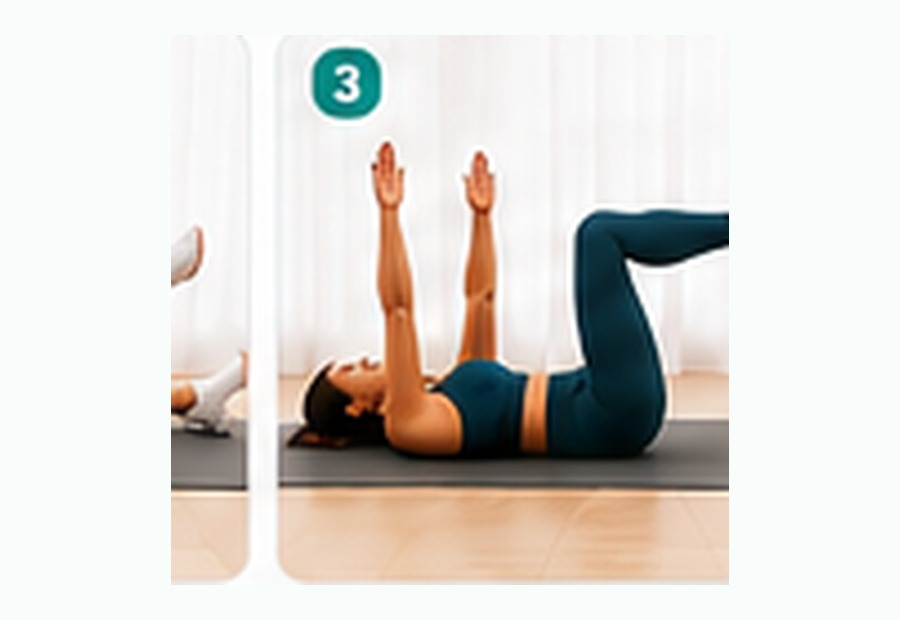
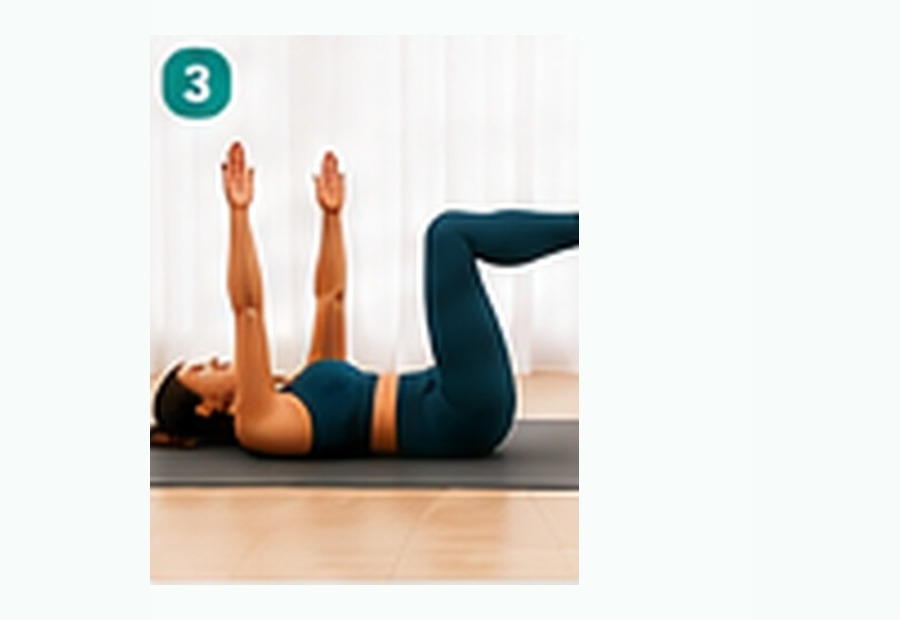
1

diff --git a/app.js b/app.js
@@ -202,7 +202,7 @@ const day1StepMap={
   ],
   rdl:[
     {title:'Výchozí stoj',text:'Postav se na šířku boků, kolena jen lehce pokrčená, ruce nebo činky u stehen.'},
-    {title:'Pánev dozadu',text:'Posílej pánev dozadu, záda drž dlouhá a ruce nech klouzat po stehnech směrem ke kolenům.'},
+    {title:'Boky dozadu',text:'Posuň boky dozadu, záda drž dlouhá a ruce nech klouzat po stehnech směrem ke kolenům.'},
     {title:'Návrat nahoru',text:'Zatlač přes paty, stáhni hýždě a vrať se do vzpřímeného stoje bez záklonu.'}
   ],
   hydrant:[
@@ -211,12 +211,12 @@ const day1StepMap={
     {title:'Kontrolovaný návrat',text:'Vrať koleno zpět pod kyčel pomalu, bez švihu a bez zhoupnutí v bedrech.'}
   ],
   clam:[
-    {title:'Zavřená pozice',text:'Leh na boku, paty u sebe, kolena pokrčená a boky položené přesně nad sebou.'},
-    {title:'Otevření kolena',text:'Horní koleno otevři nahoru jako mušličku, paty zůstávají u sebe.'},
-    {title:'Pomalý návrat',text:'Koleno zavírej pomalu, pánev se nesmí přetočit dozadu.'}
+    {title:'Výchozí pozice',text:'Lehni na bok, paty u sebe, kolena pokrčená. Neotáčej pánev.'},
+    {title:'Zvednutí kolena',text:'Pomalu zvedni horní koleno vzhůru. Paty zůstávají u sebe.'},
+    {title:'Návrat',text:'Pomalu vrať horní koleno zpět. Pohyb prováděj bez otáčení pánve.'}
   ],
   sideleg:[
-    {title:'Leh na boku',text:'Spodní noha může být pokrčená, horní noha je dlouhá a pánev stabilní.'},
+    {title:'Lehni na bok',text:'Spodní noha může být pokrčená, horní noha je dlouhá a pánev stabilní.'},
     {title:'Zvednutí nohy',text:'Zvedni horní nohu bez švihu. Špičku lehce přitáhni k sobě.'},
     {title:'Spuštění dolů',text:'Spouštěj nohu kontrolovaně zpět, nepovol břicho ani pánev.'}
   ],
@@ -293,7 +293,7 @@ function exCard(k,dose,d,i){
 const introKey='pb40-intro-seen-v11';
 
 function exportProgress(){
-  const payload={version:'PB40-v30',exportedAt:new Date().toISOString(),items:{}};
+  const payload={version:'PB40-v35',exportedAt:new Date().toISOString(),items:{}};
   for(let i=0;i<localStorage.length;i++){
     const k=localStorage.key(i);
     if(k&&k.startsWith('pb40-')) payload.items[k]=localStorage.getItem(k);

diff --git a/sw.js b/sw.js
@@ -1,4 +1,4 @@
-const CACHE='PB40-v34-day1-photo-display';
+const CACHE='PB40-v35-day1-texts-deadbug';
 const ASSETS=['./','index.html','manifest.json','style.css','app.js','data.js'];
 self.addEventListener('install',e=>{e.waitUntil(caches.open(CACHE).then(c=>c.addAll(ASSETS)).then(()=>self.skipWaiting()));});
 self.addEventListener('activate',e=>{e.waitUntil(caches.keys().then(keys=>Promise.all(keys.filter(k=>k!==CACHE).map(k=>caches.delete(k)))).then(()=>self.clients.claim()));});
@@ -12,3 +12,5 @@ self.addEventListener('fetch',e=>{
   }
   e.respondWith(caches.match(req).then(r=>r||fetch(req).then(res=>{const copy=res.clone();caches.open(CACHE).then(c=>c.put(req,copy));return res;})));
 });
+
+// v35: jazyková revize Dne 1 + oprava posledního kroku Dead Bug

diff --git a/data.js b/data.js
@@ -1,1 +1,1 @@
-window.PB40_DATA={"exercises":{"hip":{"name":"Glute Bridge","icon":"🍑","image":"assets/exercises/glute_bridge_card.jpg","dose":"","focus":"Hýždě a zadní stehna.","how":["Lehni si na záda na podložku, chodidla dej pod kolena. Zatlač přes paty a zvedni pánev nahoru.","V horní pozici krátce stáhni hýždě. Žebra nech dole a neprohýbej se v bedrech."],"feel":"Hýždě a zadní stehna.","watch":"Neprohýbej bedra a nezvedej se přes špičky."},"rdl":{"name":"Rumunský mrtvý tah","icon":"🍑","image":"assets/exercises/rdl_real_card.jpg","dose":"","focus":"Zadní stehna a hýždě.","how":["Postav se na šířku boků, lehce pokrč kolena a posílej pánev dozadu.","Záda drž dlouhá, činky nebo ruce kloužou po stehnech."],"feel":"Zadní stehna a hýždě.","watch":"Drž rovná záda."},"hydrant":{"name":"Fire Hydrant","icon":"🍑","image":"assets/exercises/hydrant_real_card.jpg","dose":"","focus":"Bok hýždě.","how":["Na všech čtyřech zpevni břicho a zvedej koleno do strany jen do čistého rozsahu.","Pánev se nesmí překlápět."],"feel":"Bok hýždě.","watch":"Nepřetáčej pánev."},"clam":{"name":"Clamshell","icon":"🍑","image":"assets/exercises/clam_real_card.jpg","dose":"","focus":"Bok hýždě.","how":["Leh na boku, paty u sebe, kolena pokrčená. Horní koleno otevři a pomalu vrať.","Boky zůstávají nad sebou."],"feel":"Bok hýždě.","watch":"Nepřeklápěj bok dozadu."},"sideleg":{"name":"Side Leg Lift","icon":"🍑","image":"assets/exercises/sideleg_real_card.jpg","dose":"","focus":"Bok hýždě.","how":["Leh na boku, spodní noha může být pokrčená. Horní nohu zvedej bez švihu.","Špičku lehce stáhni k sobě, ať pracuje bok hýždě."],"feel":"Bok hýždě.","watch":"Nešvihej nohou."},"deadbug":{"name":"Dead Bug","icon":"🔥","image":"assets/exercises/deadbug_real_card.jpg","dose":"","focus":"Spodní břicho.","how":["Leh na zádech, nohy v 90° a ruce ke stropu. Pomalu natáhni pravou ruku za hlavu a levou nohu dopředu.","Vrať se zpět do výchozí polohy a potom vystřídej strany. Bedra drž stabilní."],"feel":"Spodní břicho.","watch":"Bedra se neodlepují od podložky."},"toetap":{"name":"Toe Taps","icon":"🔥","image":"assets/exercises/toetap.jpg","dose":"","focus":"Spodní břicho.","how":["Leh na zádech, nohy v 90°. Střídavě pokládej špičku k zemi.","Když se bedra odlepují, zmenši rozsah."],"feel":"Spodní břicho.","watch":"Bedra drž u země."},"revcrunch":{"name":"Reverse Crunch","icon":"🔥","image":"assets/exercises/revcrunch.jpg","dose":"","focus":"Spodní břicho.","how":["Kolena veď k hrudníku a pánev jen lehce odlep od podložky.","Netáhej švihem a nezvedej celý trup."],"feel":"Spodní břicho.","watch":"Nešvihej nohama."},"sideplank":{"name":"Side Plank","icon":"🔥","image":"assets/exercises/sideplank.jpg","dose":"","focus":"Pas.","how":["Loket pod ramenem, boky nad sebou. Zvedni pánev a drž.","Lehčí varianta je s koleny na zemi."],"feel":"Pas.","watch":"Nepropadej se v rameni."},"hollow":{"name":"Hollow Hold","icon":"🔥","image":"assets/exercises/hollow.jpg","dose":"","focus":"Břicho.","how":["Bedra přitiskni k podložce, ruce a nohy natáhni jen tak nízko, jak udržíš techniku.","Když táhne krk nebo bedra, vrať nohy výš."],"feel":"Břicho.","watch":"Když cítíš bedra, pokrč kolena."},"row":{"name":"Bent Over Row","icon":"💪","image":"assets/exercises/row.jpg","dose":"","focus":"Záda.","how":["S gumou nebo činkami táhni lokty dozadu podél těla.","Ramena drž dolů, lopatky jemně k sobě."],"feel":"Záda.","watch":"Ramena nedávej k uším."},"press":{"name":"Shoulder Press","icon":"💪","image":"assets/exercises/press.jpg","dose":"","focus":"Ramena.","how":["Tlač ruce nad hlavu bez prohnutí v bedrech.","Břicho lehce zpevni a ramena netlač k uším."],"feel":"Ramena.","watch":"Neprohýbej bedra."},"raise":{"name":"Lateral Raise","icon":"💪","image":"assets/exercises/raise.jpg","dose":"","focus":"Ramena.","how":["Zvedej ruce jen po úroveň ramen, palce lehce nahoru.","Krk nech dlouhý a nepomáhej si švihem."],"feel":"Ramena.","watch":"Nešvihej."},"bird":{"name":"Bird Dog","icon":"🔥","image":"assets/exercises/bird.jpg","dose":"","focus":"Střed těla a hýždě.","how":["Na všech čtyřech natáhni opačnou ruku a nohu.","Pánev drž rovně a vrať pomalu zpět."],"feel":"Střed těla a hýždě.","watch":"Pánev se neotáčí."},"frog":{"name":"Frog Pumps","icon":"🍑","image":"assets/exercises/frog.jpg","dose":"","focus":"Hýždě.","how":["Chodidla spoj k sobě, kolena od sebe. Zvedej pánev krátkým hýžďovým pohybem.","V horní pozici nestlačuj bedra, jen hýždě."],"feel":"Hýždě.","watch":"Bedra klidně."},"donkey":{"name":"Donkey Kick","icon":"🍑","image":"assets/exercises/donkey.jpg","dose":"","focus":"Hýždě.","how":["Koleno drž pokrčené, patu tlač nahoru.","Neprohýbej se, pohyb vychází z hýždě."],"feel":"Hýždě.","watch":"Nekopej švihem."},"abduction":{"name":"Bridge Abduction","icon":"🍑","image":"assets/exercises/abduction.jpg","dose":"","focus":"Bok hýždě.","how":["V mostu drž pánev nahoře a kolena otevírej do stran.","Gumu tlač plynule, ne švihem."],"feel":"Bok hýždě.","watch":"Pánev neklesá."},"plie":{"name":"Plié Squat","icon":"🍑","image":"assets/exercises/plie.jpg","dose":"","focus":"Hýždě a stehna.","how":["Široký postoj, špičky ven. Klesej jen do pohodlné hloubky.","Kolena sledují špičky, nepadnou dovnitř."],"feel":"Hýždě a stehna.","watch":"Kolena míří ke špičkám."},"plank":{"name":"Forearm Plank","icon":"🔥","image":"assets/exercises/plank.jpg","dose":"","focus":"Střed těla.","how":["Lokty pod rameny, tělo v jedné linii.","Zpevni břicho a dýchej krátce do žeber."],"feel":"Střed těla.","watch":"Nezvedej zadek moc vysoko."},"tap":{"name":"Plank Shoulder Taps","icon":"🔥","image":"assets/exercises/tap.jpg","dose":"","focus":"Střed těla a ramena.","how":["V prkně se dotkni opačného ramene.","Pánev drž klidně, raději pomaleji."],"feel":"Střed těla a ramena.","watch":"Nehoupej pánví."},"catcow":{"name":"Cat-Cow","icon":"🧘","image":"assets/exercises/catcow.jpg","dose":"","focus":"Páteř.","how":["S nádechem jemně otevři hrudník, s výdechem zakulať záda.","Pohyb veď obratel po obratli."],"feel":"Páteř.","watch":"Pomalu, ne švihem."},"thread":{"name":"Thread the Needle","icon":"🧘","image":"assets/exercises/thread.jpg","dose":"","focus":"Horní záda.","how":["Ruku provleč pod tělem a nech rameno klesnout k zemi.","Dýchej do horní části zad."],"feel":"Horní záda.","watch":"Netlač přes bolest."},"rollup":{"name":"Roll Up","icon":"🧘","image":"assets/exercises/rollup.jpg","dose":"","focus":"Břicho.","how":["Začni vleže, bradu jemně k hrudníku a zvedej se pomalu.","Když to nejde, pomoz si rukama za stehny."],"feel":"Břicho.","watch":"Necukej tělem."},"mermaid":{"name":"Mermaid Stretch","icon":"🧘","image":"assets/exercises/mermaid.jpg","dose":"","focus":"Bok trupu.","how":["Sedni si pohodlně a veď ruku obloukem přes hlavu.","Protahuj bok trupu, nekrč rameno."],"feel":"Bok trupu.","watch":"Rameno netlač k uchu."},"sidekick":{"name":"Side Kick Series","icon":"🍑","image":"assets/exercises/sidekick.jpg","dose":"","focus":"Bok hýždě.","how":["Na boku veď horní nohu dopředu a dozadu v malém rozsahu.","Břicho drž pevné, pánev se nehýbe."],"feel":"Bok hýždě.","watch":"Pánev drž klidně."},"swan":{"name":"Swan Prep","icon":"🧘","image":"assets/exercises/swan.jpg","dose":"","focus":"Horní záda.","how":["Leh na břiše, lokty u těla. Jemně zvedni hrudník.","Hýždě a břicho lehce aktivní, bedra netlač."],"feel":"Horní záda.","watch":"Nepřetěžuj bedra."},"spine":{"name":"Spine Stretch","icon":"🧘","image":"assets/exercises/spine.jpg","dose":"","focus":"Záda a zadní stehna.","how":["Sed s dlouhými zády, ruce dopředu. Kulatě se vytahuj vpřed.","Nepřepínej kolena a netlač přes hamstringy."],"feel":"Záda a zadní stehna.","watch":"Netlač přes bolest."},"wall":{"name":"Wall Sit","icon":"🍑","image":"assets/exercises/wall.jpg","dose":"","focus":"Stehna.","how":["Záda opři o zeď a sjeď jen do bezbolestné hloubky.","Kolena drž nad kotníky, ne hluboko před nimi."],"feel":"Stehna.","watch":"Když bolí kolena, vynech."},"hip_march":{"name":"Glute Bridge March","icon":"🍑","image":"assets/exercises/hip_march.jpg","dose":"","focus":"Hýždě a střed těla.","how":["V mostu drž pánev nahoře a pomalu střídavě odlehči jednu nohu.","Pánev se nesmí houpat do stran; když se hýbe, vrať se ke klasickému mostu."],"feel":"Hýždě, zadní stehna a spodní břicho.","watch":"Pánev drž v rovině."},"rdl_slow":{"name":"Rumunský mrtvý tah – pomalu","icon":"🍑","image":"assets/exercises/rdl_slow.jpg","dose":"","focus":"Zadní stehna a hýždě.","how":["Pánev posílej dozadu tři pomalé sekundy a nahoru se vrať plynule.","Kolena jsou jen lehce pokrčená, záda dlouhá a krk volný."],"feel":"Zadní stehna a hýždě.","watch":"Nezakulacuj záda."},"clam_pulse":{"name":"Clamshell pulsy","icon":"🍑","image":"assets/exercises/clam_pulse.jpg","dose":"","focus":"Bok hýždě.","how":["Otevři horní koleno a nahoře udělej 3 malé pulsy.","Boky zůstávají nad sebou, neotáčej pánev dozadu."],"feel":"Bok hýždě.","watch":"Nepřeklápěj bok dozadu."},"deadbug_hold":{"name":"Dead Bug s výdrží","icon":"🔥","image":"assets/exercises/deadbug_hold.jpg","dose":"","focus":"Spodní břicho.","how":["Natáhni opačnou ruku a nohu a na 2 sekundy zastav.","Bedra drž stabilní, raději zmenši rozsah než ztratit kontrolu."],"feel":"Hluboké břicho a stabilitu středu.","watch":"Bedra se neodlepují."},"toetap_slow":{"name":"Toe Taps – pomalu","icon":"🔥","image":"assets/exercises/toetap_slow.jpg","dose":"","focus":"Spodní břicho.","how":["Špičku pokládej k zemi na 3 sekundy a stejně pomalu vrať zpět.","Když se bedra odlepují, pokládej špičku jen do poloviny."],"feel":"Spodní břicho.","watch":"Nepospíchej a nezvedej bedra."},"sideplank_reach":{"name":"Side Plank Reach","icon":"🔥","image":"assets/exercises/sideplank_reach.jpg","dose":"","focus":"Pas a šikmé břišní svaly.","how":["V bočním prkně vytáhni horní ruku ke stropu a pak ji pomalu veď před tělo.","Lehčí varianta je s koleny na zemi."],"feel":"Pas, bok trupu a rameno.","watch":"Nepropadej se v rameni."},"row_pause":{"name":"Bent Over Row s pauzou","icon":"💪","image":"assets/exercises/row_pause.jpg","dose":"","focus":"Záda.","how":["Přitáhni lokty dozadu a na 1 sekundu zastav lopatky u sebe.","Ramena zůstávají daleko od uší a krk je volný."],"feel":"Mezilopatkové svaly a horní záda.","watch":"Ramena netahej k uším."},"press_slow":{"name":"Shoulder Press – kontrolovaně","icon":"💪","image":"assets/exercises/press_slow.jpg","dose":"","focus":"Ramena.","how":["Tlač ruce nad hlavu pomalu a nahoře nezamykej lokty silou.","Břicho drž aktivní, ať se neprohneš v bedrech."],"feel":"Ramena a horní záda.","watch":"Neprohýbej bedra."},"bird_hold":{"name":"Bird Dog s výdrží","icon":"🔥","image":"assets/exercises/bird_hold.jpg","dose":"","focus":"Střed těla, záda a hýždě.","how":["Natáhni opačnou ruku a nohu a na 2 sekundy zastav.","Pánev drž rovně, jako by na ní ležela sklenička vody."],"feel":"Střed těla, hýždě a stabilitu zad.","watch":"Pánev se neotáčí."},"sidekick_pulse":{"name":"Side Kick pulsy","icon":"🍑","image":"assets/exercises/sidekick_pulse.jpg","dose":"","focus":"Bok hýždě.","how":["Na boku veď nohu lehce dopředu a nahoře přidej malé kontrolované pulsy.","Pánev zůstává klidná, břicho lehce aktivní."],"feel":"Bok hýždě.","watch":"Nešvihej nohou."},"swan_hold":{"name":"Swan Prep s výdrží","icon":"🧘","image":"assets/exercises/swan_hold.jpg","dose":"","focus":"Horní záda.","how":["Jemně zvedni hrudník a na 2 nádechy zastav.","Hýždě a břicho jsou lehce aktivní, bedra netlač."],"feel":"Horní záda a otevření hrudníku.","watch":"Nepřetěžuj bedra."},"frog_hold":{"name":"Frog Pumps s výdrží","icon":"🍑","image":"assets/exercises/frog_hold.jpg","dose":"","focus":"Hýždě.","how":["Po několika krátkých pumpech nahoře na 2 sekundy stáhni hýždě.","Bedra zůstávají klidná, pohyb je opravdu z hýždí."],"feel":"Hýždě.","watch":"Netlač pohyb do beder."},"plank_breath":{"name":"Forearm Plank + dech","icon":"🔥","image":"assets/exercises/plank_breath.jpg","dose":"","focus":"Střed těla.","how":["Drž prkno a počítej pomalé nádechy do žeber.","Zadek není vysoko, bedra se nepropadají."],"feel":"Střed těla a stabilitu ramen.","watch":"Nezadržuj dech."}},"days":[{"title":"Den 1 • Hýždě + zadní stehna","note":"První týden si hlídej hlavně techniku. Tlak přes paty, pomalé tempo. Pokud se ozvou kyčle, zmenši rozsah.","items":[["hip","15×"],["rdl","12×"],["hydrant","15/15"],["clam","15/15"],["sideleg","15/15"],["deadbug","10/10"]]},{"title":"Den 2 • Břicho + pas","note":"První týden si hlídej hlavně techniku. Bedra drž stabilní. U břicha vydechuj při nejtěžší části pohybu.","items":[["deadbug","12/12"],["toetap","15/15"],["revcrunch","12×"],["sideplank","25 s/strana"],["hollow","20 s"],["thread","30 s/strana"]]},{"title":"Den 3 • Horní část + držení těla","note":"První týden si hlídej hlavně techniku. Ramena dolů od uší. Dnes jde hlavně o záda, lopatky a klidný krk.","items":[["row","12×"],["press","10×"],["raise","12×"],["bird","12/12"],["plank","25 s"],["mermaid","30 s/strana"]]},{"title":"Den 4 • Asian Pilates / mobilita","note":"První týden si hlídej hlavně techniku. Plynulost, dech a delší linie těla. Necvič do ostré bolesti.","items":[["rollup","35 s"],["mermaid","30 s/strana"],["sidekick","35 s/strana"],["swan","35 s"],["spine","40 s"],["catcow","40 s"]]},{"title":"Den 5 • Zadek SPECIAL","note":"První týden si hlídej hlavně techniku. Zadek může pálit, kolena ne. Plié nech mělké, pokud cítíš tlak v kolenou.","items":[["frog","20×"],["donkey","15/15"],["hydrant","18/18"],["abduction","15×"],["plie","12×"],["thread","30 s/strana"]]},{"title":"Den 6 • Celé tělo","note":"První týden si hlídej hlavně techniku. Technika před rychlostí. Ber to jako propojení všeho z týdne.","items":[["rdl","12×"],["plank","25 s"],["tap","10/10"],["hip","15×"],["row","12×"],["spine","40 s"]]},{"title":"Den 7 😴 Volno / chůze","note":"Volno, lehká procházka nebo jemné protažení. Tělo sílí i regenerací.","items":[]},{"title":"Den 8 • Hýždě + zadní stehna","note":"Druhý týden přidáváme pomalejší tempo, krátké výdrže a lepší kontrolu. Tlak přes paty, pomalé tempo. Pokud se ozvou kyčle, zmenši rozsah.","items":[["hip_march","12/12"],["rdl_slow","12×"],["hydrant","18/18"],["clam_pulse","12/12"],["sideleg","18/18"],["catcow","45 s"]]},{"title":"Den 9 • Břicho + pas","note":"Druhý týden přidáváme pomalejší tempo, krátké výdrže a lepší kontrolu. Bedra drž stabilní. U břicha vydechuj při nejtěžší části pohybu.","items":[["deadbug_hold","10/10"],["toetap_slow","12/12"],["revcrunch","14×"],["sideplank_reach","8/8"],["hollow","25 s"],["thread","35 s/strana"]]},{"title":"Den 10 • Horní část + držení těla","note":"Druhý týden přidáváme pomalejší tempo, krátké výdrže a lepší kontrolu. Ramena dolů od uší. Dnes jde hlavně o záda, lopatky a klidný krk.","items":[["row_pause","12×"],["press_slow","10×"],["raise","14×"],["bird_hold","10/10"],["plank_breath","30 s"],["mermaid","35 s/strana"]]},{"title":"Den 11 • Asian Pilates / mobilita","note":"Druhý týden přidáváme pomalejší tempo, krátké výdrže a lepší kontrolu. Plynulost, dech a delší linie těla. Necvič do ostré bolesti.","items":[["rollup","40 s"],["mermaid","35 s/strana"],["sidekick_pulse","35 s/strana"],["swan_hold","35 s"],["spine","45 s"],["catcow","45 s"]]},{"title":"Den 12 • Zadek SPECIAL","note":"Druhý týden přidáváme pomalejší tempo, krátké výdrže a lepší kontrolu. Zadek může pálit, kolena ne. Plié nech mělké, pokud cítíš tlak v kolenou.","items":[["frog_hold","18×"],["donkey","18/18"],["hydrant","18/18"],["abduction","18×"],["plie","14×"],["thread","35 s/strana"]]},{"title":"Den 13 • Celé tělo","note":"Druhý týden přidáváme pomalejší tempo, krátké výdrže a lepší kontrolu. Technika před rychlostí. Ber to jako propojení všeho z týdne.","items":[["rdl_slow","12×"],["plank_breath","30 s"],["tap","10/10"],["hip_march","12/12"],["row_pause","12×"],["spine","45 s"]]},{"title":"Den 14 😴 Volno / chůze","note":"Volno, lehká procházka nebo jemné protažení. Tělo sílí i regenerací.","items":[]},{"title":"Den 15 • Hýždě + zadní stehna","note":"Třetí týden zpevni střed a pracuj přesněji. Tlak přes paty, pomalé tempo. Pokud se ozvou kyčle, zmenši rozsah.","items":[["hip","20×"],["rdl","20×"],["hydrant","15/15"],["clam","15/15"],["sideleg","15/15"],["catcow","40 s"]]},{"title":"Den 16 • Břicho + pas","note":"Třetí týden zpevni střed a pracuj přesněji. Bedra drž stabilní. U břicha vydechuj při nejtěžší části pohybu.","items":[["deadbug","12/12"],["toetap","15/15"],["revcrunch","20×"],["sideplank","45 s/strana"],["hollow","20 s"],["thread","45 s/strana"]]},{"title":"Den 17 • Horní část + držení těla","note":"Třetí týden zpevni střed a pracuj přesněji. Ramena dolů od uší. Dnes jde hlavně o záda, lopatky a klidný krk.","items":[["row","20×"],["press","20×"],["raise","20×"],["bird","12/12"],["plank","45 s"],["mermaid","45 s/strana"]]},{"title":"Den 18 • Asian Pilates / mobilita","note":"Třetí týden zpevni střed a pracuj přesněji. Plynulost, dech a delší linie těla. Necvič do ostré bolesti.","items":[["rollup","45 s"],["mermaid","45 s/strana"],["sidekick","45 s/strana"],["swan","45 s"],["spine","40 s"],["catcow","40 s"]]},{"title":"Den 19 • Zadek SPECIAL","note":"Třetí týden zpevni střed a pracuj přesněji. Zadek může pálit, kolena ne. Plié nech mělké, pokud cítíš tlak v kolenou.","items":[["frog","20×"],["donkey","15/15"],["hydrant","20/20"],["abduction","20×"],["plie","20×"],["thread","45 s/strana"]]},{"title":"Den 20 • Celé tělo","note":"Třetí týden zpevni střed a pracuj přesněji. Technika před rychlostí. Ber to jako propojení všeho z týdne.","items":[["rdl","20×"],["plank","45 s"],["tap","10/10"],["hip","20×"],["row","20×"],["spine","40 s"]]},{"title":"Den 21 😴 Volno / chůze","note":"Volno, lehká procházka nebo jemné protažení. Tělo sílí i regenerací.","items":[]},{"title":"Den 22 • Hýždě + zadní stehna","note":"Čtvrtý týden je finální — poctivě, ale ne přes bolest. Tlak přes paty, pomalé tempo. Pokud se ozvou kyčle, zmenši rozsah.","items":[["hip","22×"],["rdl","16×"],["hydrant","15/15"],["clam","15/15"],["sideleg","15/15"],["catcow","40 s"]]},{"title":"Den 23 • Břicho + pas","note":"Čtvrtý týden je finální — poctivě, ale ne přes bolest. Bedra drž stabilní. U břicha vydechuj při nejtěžší části pohybu.","items":[["deadbug","12/12"],["toetap","15/15"],["revcrunch","16×"],["sideplank","40 s/strana"],["hollow","20 s"],["thread","40 s/strana"]]},{"title":"Den 24 • Horní část + držení těla","note":"Čtvrtý týden je finální — poctivě, ale ne přes bolest. Ramena dolů od uší. Dnes jde hlavně o záda, lopatky a klidný krk.","items":[["row","16×"],["press","14×"],["raise","16×"],["bird","12/12"],["plank","40 s"],["mermaid","40 s/strana"]]},{"title":"Den 25 • Asian Pilates / mobilita","note":"Čtvrtý týden je finální — poctivě, ale ne přes bolest. Plynulost, dech a delší linie těla. Necvič do ostré bolesti.","items":[["rollup","50 s"],["mermaid","40 s/strana"],["sidekick","50 s/strana"],["swan","50 s"],["spine","40 s"],["catcow","40 s"]]},{"title":"Den 26 • Zadek SPECIAL","note":"Čtvrtý týden je finální — poctivě, ale ne přes bolest. Zadek může pálit, kolena ne. Plié nech mělké, pokud cítíš tlak v kolenou.","items":[["frog","20×"],["donkey","15/15"],["hydrant","22/22"],["abduction","22×"],["plie","16×"],["thread","40 s/strana"]]},{"title":"Den 27 • Celé tělo","note":"Čtvrtý týden je finální — poctivě, ale ne přes bolest. Technika před rychlostí. Ber to jako propojení všeho z týdne.","items":[["rdl","16×"],["plank","40 s"],["tap","10/10"],["hip","22×"],["row","16×"],["spine","40 s"]]},{"title":"Den 28 😴 Volno / chůze","note":"Volno, lehká procházka nebo jemné protažení. Tělo sílí i regenerací.","items":[]},{"title":"Den 29 • Finální hýždě + zadní stehna","note":"Poslední silovější den. Drž kvalitu a vnímej, o kolik lépe cviky kontroluješ.","items":[["hip","22×"],["rdl","16×"],["donkey","18/18"],["abduction","20×"],["sideleg","18/18"],["catcow","45 s"]]},{"title":"Den 30 • Finální břicho + pas","note":"Závěr programu. Cvič čistě, potom si ulož měření a poznámku, ať vidíš posun.","items":[["deadbug","16/16"],["toetap","18/18"],["revcrunch","16×"],["sideplank","40 s/strana"],["hollow","35 s"],["spine","45 s"]]}]};
+window.PB40_DATA={"exercises":{"hip":{"name":"Glute Bridge","icon":"🍑","image":"assets/exercises/glute_bridge_card.jpg","dose":"","focus":"Hýždě a zadní stehna.","how":["Lehni si na záda na podložku, chodidla dej pod kolena. Zatlač přes paty a zvedni pánev nahoru.","V horní pozici krátce stáhni hýždě. Žebra nech dole a neprohýbej se v bedrech."],"feel":"Hýždě a zadní stehna.","watch":"Neprohýbej bedra a nezvedej se přes špičky."},"rdl":{"name":"Rumunský mrtvý tah","icon":"🍑","image":"assets/exercises/rdl_real_card.jpg","dose":"","focus":"Zadní stehna a hýždě.","how":["Postav se na šířku boků, lehce pokrč kolena a posuň boky dozadu.","Záda drž dlouhá, činky nebo ruce kloužou po stehnech."],"feel":"Zadní stehna a hýždě.","watch":"Drž rovná záda."},"hydrant":{"name":"Fire Hydrant","icon":"🍑","image":"assets/exercises/hydrant_real_card.jpg","dose":"","focus":"Bok hýždě.","how":["Na všech čtyřech zpevni břicho a zvedej koleno do strany jen do čistého rozsahu.","Pánev se nesmí překlápět."],"feel":"Bok hýždě.","watch":"Nepřetáčej pánev."},"clam":{"name":"Clamshell","icon":"🍑","image":"assets/exercises/clam_real_card.jpg","dose":"","focus":"Bok hýždě.","how":["Lehni na bok, paty u sebe, kolena pokrčená. Neotáčej pánev.","Pomalu zvedni horní koleno vzhůru. Paty zůstávají u sebe."],"feel":"Bok hýždě.","watch":"Neotáčej pánev."},"sideleg":{"name":"Side Leg Lift","icon":"🍑","image":"assets/exercises/sideleg_real_card.jpg","dose":"","focus":"Bok hýždě.","how":["Lehni na bok, spodní noha může být pokrčená. Horní nohu zvedej bez švihu.","Špičku lehce stáhni k sobě, ať pracuje bok hýždě."],"feel":"Bok hýždě.","watch":"Nešvihej nohou."},"deadbug":{"name":"Dead Bug","icon":"🔥","image":"assets/exercises/deadbug_real_card.jpg","dose":"","focus":"Spodní břicho.","how":["Leh na zádech, nohy v 90° a ruce ke stropu. Pomalu natáhni pravou ruku za hlavu a levou nohu dopředu.","Vrať se zpět do výchozí polohy a potom vystřídej strany. Bedra drž stabilní."],"feel":"Spodní břicho.","watch":"Bedra se neodlepují od podložky."},"toetap":{"name":"Toe Taps","icon":"🔥","image":"assets/exercises/toetap.jpg","dose":"","focus":"Spodní břicho.","how":["Leh na zádech, nohy v 90°. Střídavě pokládej špičku k zemi.","Když se bedra odlepují, zmenši rozsah."],"feel":"Spodní břicho.","watch":"Bedra drž u země."},"revcrunch":{"name":"Reverse Crunch","icon":"🔥","image":"assets/exercises/revcrunch.jpg","dose":"","focus":"Spodní břicho.","how":["Kolena veď k hrudníku a pánev jen lehce odlep od podložky.","Netáhej švihem a nezvedej celý trup."],"feel":"Spodní břicho.","watch":"Nešvihej nohama."},"sideplank":{"name":"Side Plank","icon":"🔥","image":"assets/exercises/sideplank.jpg","dose":"","focus":"Pas.","how":["Loket pod ramenem, boky nad sebou. Zvedni pánev a drž.","Lehčí varianta je s koleny na zemi."],"feel":"Pas.","watch":"Nepropadej se v rameni."},"hollow":{"name":"Hollow Hold","icon":"🔥","image":"assets/exercises/hollow.jpg","dose":"","focus":"Břicho.","how":["Bedra přitiskni k podložce, ruce a nohy natáhni jen tak nízko, jak udržíš techniku.","Když táhne krk nebo bedra, vrať nohy výš."],"feel":"Břicho.","watch":"Když cítíš bedra, pokrč kolena."},"row":{"name":"Bent Over Row","icon":"💪","image":"assets/exercises/row.jpg","dose":"","focus":"Záda.","how":["S gumou nebo činkami táhni lokty dozadu podél těla.","Ramena drž dolů, lopatky jemně k sobě."],"feel":"Záda.","watch":"Ramena nedávej k uším."},"press":{"name":"Shoulder Press","icon":"💪","image":"assets/exercises/press.jpg","dose":"","focus":"Ramena.","how":["Tlač ruce nad hlavu bez prohnutí v bedrech.","Břicho lehce zpevni a ramena netlač k uším."],"feel":"Ramena.","watch":"Neprohýbej bedra."},"raise":{"name":"Lateral Raise","icon":"💪","image":"assets/exercises/raise.jpg","dose":"","focus":"Ramena.","how":["Zvedej ruce jen po úroveň ramen, palce lehce nahoru.","Krk nech dlouhý a nepomáhej si švihem."],"feel":"Ramena.","watch":"Nešvihej."},"bird":{"name":"Bird Dog","icon":"🔥","image":"assets/exercises/bird.jpg","dose":"","focus":"Střed těla a hýždě.","how":["Na všech čtyřech natáhni opačnou ruku a nohu.","Pánev drž rovně a vrať pomalu zpět."],"feel":"Střed těla a hýždě.","watch":"Pánev se neotáčí."},"frog":{"name":"Frog Pumps","icon":"🍑","image":"assets/exercises/frog.jpg","dose":"","focus":"Hýždě.","how":["Chodidla spoj k sobě, kolena od sebe. Zvedej pánev krátkým hýžďovým pohybem.","V horní pozici nestlačuj bedra, jen hýždě."],"feel":"Hýždě.","watch":"Bedra klidně."},"donkey":{"name":"Donkey Kick","icon":"🍑","image":"assets/exercises/donkey.jpg","dose":"","focus":"Hýždě.","how":["Koleno drž pokrčené, patu tlač nahoru.","Neprohýbej se, pohyb vychází z hýždě."],"feel":"Hýždě.","watch":"Nekopej švihem."},"abduction":{"name":"Bridge Abduction","icon":"🍑","image":"assets/exercises/abduction.jpg","dose":"","focus":"Bok hýždě.","how":["V mostu drž pánev nahoře a kolena otevírej do stran.","Gumu tlač plynule, ne švihem."],"feel":"Bok hýždě.","watch":"Pánev neklesá."},"plie":{"name":"Plié Squat","icon":"🍑","image":"assets/exercises/plie.jpg","dose":"","focus":"Hýždě a stehna.","how":["Široký postoj, špičky ven. Klesej jen do pohodlné hloubky.","Kolena sledují špičky, nepadnou dovnitř."],"feel":"Hýždě a stehna.","watch":"Kolena míří ke špičkám."},"plank":{"name":"Forearm Plank","icon":"🔥","image":"assets/exercises/plank.jpg","dose":"","focus":"Střed těla.","how":["Lokty pod rameny, tělo v jedné linii.","Zpevni břicho a dýchej krátce do žeber."],"feel":"Střed těla.","watch":"Nezvedej zadek moc vysoko."},"tap":{"name":"Plank Shoulder Taps","icon":"🔥","image":"assets/exercises/tap.jpg","dose":"","focus":"Střed těla a ramena.","how":["V prkně se dotkni opačného ramene.","Pánev drž klidně, raději pomaleji."],"feel":"Střed těla a ramena.","watch":"Nehoupej pánví."},"catcow":{"name":"Cat-Cow","icon":"🧘","image":"assets/exercises/catcow.jpg","dose":"","focus":"Páteř.","how":["S nádechem jemně otevři hrudník, s výdechem zakulať záda.","Pohyb veď obratel po obratli."],"feel":"Páteř.","watch":"Pomalu, ne švihem."},"thread":{"name":"Thread the Needle","icon":"🧘","image":"assets/exercises/thread.jpg","dose":"","focus":"Horní záda.","how":["Ruku provleč pod tělem a nech rameno klesnout k zemi.","Dýchej do horní části zad."],"feel":"Horní záda.","watch":"Netlač přes bolest."},"rollup":{"name":"Roll Up","icon":"🧘","image":"assets/exercises/rollup.jpg","dose":"","focus":"Břicho.","how":["Začni vleže, bradu jemně k hrudníku a zvedej se pomalu.","Když to nejde, pomoz si rukama za stehny."],"feel":"Břicho.","watch":"Necukej tělem."},"mermaid":{"name":"Mermaid Stretch","icon":"🧘","image":"assets/exercises/mermaid.jpg","dose":"","focus":"Bok trupu.","how":["Sedni si pohodlně a veď ruku obloukem přes hlavu.","Protahuj bok trupu, nekrč rameno."],"feel":"Bok trupu.","watch":"Rameno netlač k uchu."},"sidekick":{"name":"Side Kick Series","icon":"🍑","image":"assets/exercises/sidekick.jpg","dose":"","focus":"Bok hýždě.","how":["Na boku veď horní nohu dopředu a dozadu v malém rozsahu.","Břicho drž pevné, pánev se nehýbe."],"feel":"Bok hýždě.","watch":"Pánev drž klidně."},"swan":{"name":"Swan Prep","icon":"🧘","image":"assets/exercises/swan.jpg","dose":"","focus":"Horní záda.","how":["Leh na břiše, lokty u těla. Jemně zvedni hrudník.","Hýždě a břicho lehce aktivní, bedra netlač."],"feel":"Horní záda.","watch":"Nepřetěžuj bedra."},"spine":{"name":"Spine Stretch","icon":"🧘","image":"assets/exercises/spine.jpg","dose":"","focus":"Záda a zadní stehna.","how":["Sed s dlouhými zády, ruce dopředu. Kulatě se vytahuj vpřed.","Nepřepínej kolena a netlač přes hamstringy."],"feel":"Záda a zadní stehna.","watch":"Netlač přes bolest."},"wall":{"name":"Wall Sit","icon":"🍑","image":"assets/exercises/wall.jpg","dose":"","focus":"Stehna.","how":["Záda opři o zeď a sjeď jen do bezbolestné hloubky.","Kolena drž nad kotníky, ne hluboko před nimi."],"feel":"Stehna.","watch":"Když bolí kolena, vynech."},"hip_march":{"name":"Glute Bridge March","icon":"🍑","image":"assets/exercises/hip_march.jpg","dose":"","focus":"Hýždě a střed těla.","how":["V mostu drž pánev nahoře a pomalu střídavě odlehči jednu nohu.","Pánev se nesmí houpat do stran; když se hýbe, vrať se ke klasickému mostu."],"feel":"Hýždě, zadní stehna a spodní břicho.","watch":"Pánev drž v rovině."},"rdl_slow":{"name":"Rumunský mrtvý tah – pomalu","icon":"🍑","image":"assets/exercises/rdl_slow.jpg","dose":"","focus":"Zadní stehna a hýždě.","how":["Pánev posílej dozadu tři pomalé sekundy a nahoru se vrať plynule.","Kolena jsou jen lehce pokrčená, záda dlouhá a krk volný."],"feel":"Zadní stehna a hýždě.","watch":"Nezakulacuj záda."},"clam_pulse":{"name":"Clamshell pulsy","icon":"🍑","image":"assets/exercises/clam_pulse.jpg","dose":"","focus":"Bok hýždě.","how":["Otevři horní koleno a nahoře udělej 3 malé pulsy.","Boky zůstávají nad sebou, neotáčej pánev dozadu."],"feel":"Bok hýždě.","watch":"Neotáčej pánev."},"deadbug_hold":{"name":"Dead Bug s výdrží","icon":"🔥","image":"assets/exercises/deadbug_hold.jpg","dose":"","focus":"Spodní břicho.","how":["Natáhni opačnou ruku a nohu a na 2 sekundy zastav.","Bedra drž stabilní, raději zmenši rozsah než ztratit kontrolu."],"feel":"Hluboké břicho a stabilitu středu.","watch":"Bedra se neodlepují."},"toetap_slow":{"name":"Toe Taps – pomalu","icon":"🔥","image":"assets/exercises/toetap_slow.jpg","dose":"","focus":"Spodní břicho.","how":["Špičku pokládej k zemi na 3 sekundy a stejně pomalu vrať zpět.","Když se bedra odlepují, pokládej špičku jen do poloviny."],"feel":"Spodní břicho.","watch":"Nepospíchej a nezvedej bedra."},"sideplank_reach":{"name":"Side Plank Reach","icon":"🔥","image":"assets/exercises/sideplank_reach.jpg","dose":"","focus":"Pas a šikmé břišní svaly.","how":["V bočním prkně vytáhni horní ruku ke stropu a pak ji pomalu veď před tělo.","Lehčí varianta je s koleny na zemi."],"feel":"Pas, bok trupu a rameno.","watch":"Nepropadej se v rameni."},"row_pause":{"name":"Bent Over Row s pauzou","icon":"💪","image":"assets/exercises/row_pause.jpg","dose":"","focus":"Záda.","how":["Přitáhni lokty dozadu a na 1 sekundu zastav lopatky u sebe.","Ramena zůstávají daleko od uší a krk je volný."],"feel":"Mezilopatkové svaly a horní záda.","watch":"Ramena netahej k uším."},"press_slow":{"name":"Shoulder Press – kontrolovaně","icon":"💪","image":"assets/exercises/press_slow.jpg","dose":"","focus":"Ramena.","how":["Tlač ruce nad hlavu pomalu a nahoře nezamykej lokty silou.","Břicho drž aktivní, ať se neprohneš v bedrech."],"feel":"Ramena a horní záda.","watch":"Neprohýbej bedra."},"bird_hold":{"name":"Bird Dog s výdrží","icon":"🔥","image":"assets/exercises/bird_hold.jpg","dose":"","focus":"Střed těla, záda a hýždě.","how":["Natáhni opačnou ruku a nohu a na 2 sekundy zastav.","Pánev drž rovně, jako by na ní ležela sklenička vody."],"feel":"Střed těla, hýždě a stabilitu zad.","watch":"Pánev se neotáčí."},"sidekick_pulse":{"name":"Side Kick pulsy","icon":"🍑","image":"assets/exercises/sidekick_pulse.jpg","dose":"","focus":"Bok hýždě.","how":["Na boku veď nohu lehce dopředu a nahoře přidej malé kontrolované pulsy.","Pánev zůstává klidná, břicho lehce aktivní."],"feel":"Bok hýždě.","watch":"Nešvihej nohou."},"swan_hold":{"name":"Swan Prep s výdrží","icon":"🧘","image":"assets/exercises/swan_hold.jpg","dose":"","focus":"Horní záda.","how":["Jemně zvedni hrudník a na 2 nádechy zastav.","Hýždě a břicho jsou lehce aktivní, bedra netlač."],"feel":"Horní záda a otevření hrudníku.","watch":"Nepřetěžuj bedra."},"frog_hold":{"name":"Frog Pumps s výdrží","icon":"🍑","image":"assets/exercises/frog_hold.jpg","dose":"","focus":"Hýždě.","how":["Po několika krátkých pumpech nahoře na 2 sekundy stáhni hýždě.","Bedra zůstávají klidná, pohyb je opravdu z hýždí."],"feel":"Hýždě.","watch":"Netlač pohyb do beder."},"plank_breath":{"name":"Forearm Plank + dech","icon":"🔥","image":"assets/exercises/plank_breath.jpg","dose":"","focus":"Střed těla.","how":["Drž prkno a počítej pomalé nádechy do žeber.","Zadek není vysoko, bedra se nepropadají."],"feel":"Střed těla a stabilitu ramen.","watch":"Nezadržuj dech."}},"days":[{"title":"Den 1 • Hýždě + zadní stehna","note":"První týden si hlídej hlavně techniku. Tlak přes paty, pomalé tempo. Pokud se ozvou kyčle, zmenši rozsah.","items":[["hip","15×"],["rdl","12×"],["hydrant","15/15"],["clam","15/15"],["sideleg","15/15"],["deadbug","10/10"]]},{"title":"Den 2 • Břicho + pas","note":"První týden si hlídej hlavně techniku. Bedra drž stabilní. U břicha vydechuj při nejtěžší části pohybu.","items":[["deadbug","12/12"],["toetap","15/15"],["revcrunch","12×"],["sideplank","25 s/strana"],["hollow","20 s"],["thread","30 s/strana"]]},{"title":"Den 3 • Horní část + držení těla","note":"První týden si hlídej hlavně techniku. Ramena dolů od uší. Dnes jde hlavně o záda, lopatky a klidný krk.","items":[["row","12×"],["press","10×"],["raise","12×"],["bird","12/12"],["plank","25 s"],["mermaid","30 s/strana"]]},{"title":"Den 4 • Asian Pilates / mobilita","note":"První týden si hlídej hlavně techniku. Plynulost, dech a delší linie těla. Necvič do ostré bolesti.","items":[["rollup","35 s"],["mermaid","30 s/strana"],["sidekick","35 s/strana"],["swan","35 s"],["spine","40 s"],["catcow","40 s"]]},{"title":"Den 5 • Zadek SPECIAL","note":"První týden si hlídej hlavně techniku. Zadek může pálit, kolena ne. Plié nech mělké, pokud cítíš tlak v kolenou.","items":[["frog","20×"],["donkey","15/15"],["hydrant","18/18"],["abduction","15×"],["plie","12×"],["thread","30 s/strana"]]},{"title":"Den 6 • Celé tělo","note":"První týden si hlídej hlavně techniku. Technika před rychlostí. Ber to jako propojení všeho z týdne.","items":[["rdl","12×"],["plank","25 s"],["tap","10/10"],["hip","15×"],["row","12×"],["spine","40 s"]]},{"title":"Den 7 😴 Volno / chůze","note":"Volno, lehká procházka nebo jemné protažení. Tělo sílí i regenerací.","items":[]},{"title":"Den 8 • Hýždě + zadní stehna","note":"Druhý týden přidáváme pomalejší tempo, krátké výdrže a lepší kontrolu. Tlak přes paty, pomalé tempo. Pokud se ozvou kyčle, zmenši rozsah.","items":[["hip_march","12/12"],["rdl_slow","12×"],["hydrant","18/18"],["clam_pulse","12/12"],["sideleg","18/18"],["catcow","45 s"]]},{"title":"Den 9 • Břicho + pas","note":"Druhý týden přidáváme pomalejší tempo, krátké výdrže a lepší kontrolu. Bedra drž stabilní. U břicha vydechuj při nejtěžší části pohybu.","items":[["deadbug_hold","10/10"],["toetap_slow","12/12"],["revcrunch","14×"],["sideplank_reach","8/8"],["hollow","25 s"],["thread","35 s/strana"]]},{"title":"Den 10 • Horní část + držení těla","note":"Druhý týden přidáváme pomalejší tempo, krátké výdrže a lepší kontrolu. Ramena dolů od uší. Dnes jde hlavně o záda, lopatky a klidný krk.","items":[["row_pause","12×"],["press_slow","10×"],["raise","14×"],["bird_hold","10/10"],["plank_breath","30 s"],["mermaid","35 s/strana"]]},{"title":"Den 11 • Asian Pilates / mobilita","note":"Druhý týden přidáváme pomalejší tempo, krátké výdrže a lepší kontrolu. Plynulost, dech a delší linie těla. Necvič do ostré bolesti.","items":[["rollup","40 s"],["mermaid","35 s/strana"],["sidekick_pulse","35 s/strana"],["swan_hold","35 s"],["spine","45 s"],["catcow","45 s"]]},{"title":"Den 12 • Zadek SPECIAL","note":"Druhý týden přidáváme pomalejší tempo, krátké výdrže a lepší kontrolu. Zadek může pálit, kolena ne. Plié nech mělké, pokud cítíš tlak v kolenou.","items":[["frog_hold","18×"],["donkey","18/18"],["hydrant","18/18"],["abduction","18×"],["plie","14×"],["thread","35 s/strana"]]},{"title":"Den 13 • Celé tělo","note":"Druhý týden přidáváme pomalejší tempo, krátké výdrže a lepší kontrolu. Technika před rychlostí. Ber to jako propojení všeho z týdne.","items":[["rdl_slow","12×"],["plank_breath","30 s"],["tap","10/10"],["hip_march","12/12"],["row_pause","12×"],["spine","45 s"]]},{"title":"Den 14 😴 Volno / chůze","note":"Volno, lehká procházka nebo jemné protažení. Tělo sílí i regenerací.","items":[]},{"title":"Den 15 • Hýždě + zadní stehna","note":"Třetí týden zpevni střed a pracuj přesněji. Tlak přes paty, pomalé tempo. Pokud se ozvou kyčle, zmenši rozsah.","items":[["hip","20×"],["rdl","20×"],["hydrant","15/15"],["clam","15/15"],["sideleg","15/15"],["catcow","40 s"]]},{"title":"Den 16 • Břicho + pas","note":"Třetí týden zpevni střed a pracuj přesněji. Bedra drž stabilní. U břicha vydechuj při nejtěžší části pohybu.","items":[["deadbug","12/12"],["toetap","15/15"],["revcrunch","20×"],["sideplank","45 s/strana"],["hollow","20 s"],["thread","45 s/strana"]]},{"title":"Den 17 • Horní část + držení těla","note":"Třetí týden zpevni střed a pracuj přesněji. Ramena dolů od uší. Dnes jde hlavně o záda, lopatky a klidný krk.","items":[["row","20×"],["press","20×"],["raise","20×"],["bird","12/12"],["plank","45 s"],["mermaid","45 s/strana"]]},{"title":"Den 18 • Asian Pilates / mobilita","note":"Třetí týden zpevni střed a pracuj přesněji. Plynulost, dech a delší linie těla. Necvič do ostré bolesti.","items":[["rollup","45 s"],["mermaid","45 s/strana"],["sidekick","45 s/strana"],["swan","45 s"],["spine","40 s"],["catcow","40 s"]]},{"title":"Den 19 • Zadek SPECIAL","note":"Třetí týden zpevni střed a pracuj přesněji. Zadek může pálit, kolena ne. Plié nech mělké, pokud cítíš tlak v kolenou.","items":[["frog","20×"],["donkey","15/15"],["hydrant","20/20"],["abduction","20×"],["plie","20×"],["thread","45 s/strana"]]},{"title":"Den 20 • Celé tělo","note":"Třetí týden zpevni střed a pracuj přesněji. Technika před rychlostí. Ber to jako propojení všeho z týdne.","items":[["rdl","20×"],["plank","45 s"],["tap","10/10"],["hip","20×"],["row","20×"],["spine","40 s"]]},{"title":"Den 21 😴 Volno / chůze","note":"Volno, lehká procházka nebo jemné protažení. Tělo sílí i regenerací.","items":[]},{"title":"Den 22 • Hýždě + zadní stehna","note":"Čtvrtý týden je finální — poctivě, ale ne přes bolest. Tlak přes paty, pomalé tempo. Pokud se ozvou kyčle, zmenši rozsah.","items":[["hip","22×"],["rdl","16×"],["hydrant","15/15"],["clam","15/15"],["sideleg","15/15"],["catcow","40 s"]]},{"title":"Den 23 • Břicho + pas","note":"Čtvrtý týden je finální — poctivě, ale ne přes bolest. Bedra drž stabilní. U břicha vydechuj při nejtěžší části pohybu.","items":[["deadbug","12/12"],["toetap","15/15"],["revcrunch","16×"],["sideplank","40 s/strana"],["hollow","20 s"],["thread","40 s/strana"]]},{"title":"Den 24 • Horní část + držení těla","note":"Čtvrtý týden je finální — poctivě, ale ne přes bolest. Ramena dolů od uší. Dnes jde hlavně o záda, lopatky a klidný krk.","items":[["row","16×"],["press","14×"],["raise","16×"],["bird","12/12"],["plank","40 s"],["mermaid","40 s/strana"]]},{"title":"Den 25 • Asian Pilates / mobilita","note":"Čtvrtý týden je finální — poctivě, ale ne přes bolest. Plynulost, dech a delší linie těla. Necvič do ostré bolesti.","items":[["rollup","50 s"],["mermaid","40 s/strana"],["sidekick","50 s/strana"],["swan","50 s"],["spine","40 s"],["catcow","40 s"]]},{"title":"Den 26 • Zadek SPECIAL","note":"Čtvrtý týden je finální — poctivě, ale ne přes bolest. Zadek může pálit, kolena ne. Plié nech mělké, pokud cítíš tlak v kolenou.","items":[["frog","20×"],["donkey","15/15"],["hydrant","22/22"],["abduction","22×"],["plie","16×"],["thread","40 s/strana"]]},{"title":"Den 27 • Celé tělo","note":"Čtvrtý týden je finální — poctivě, ale ne přes bolest. Technika před rychlostí. Ber to jako propojení všeho z týdne.","items":[["rdl","16×"],["plank","40 s"],["tap","10/10"],["hip","22×"],["row","16×"],["spine","40 s"]]},{"title":"Den 28 😴 Volno / chůze","note":"Volno, lehká procházka nebo jemné protažení. Tělo sílí i regenerací.","items":[]},{"title":"Den 29 • Finální hýždě + zadní stehna","note":"Poslední silovější den. Drž kvalitu a vnímej, o kolik lépe cviky kontroluješ.","items":[["hip","22×"],["rdl","16×"],["donkey","18/18"],["abduction","20×"],["sideleg","18/18"],["catcow","45 s"]]},{"title":"Den 30 • Finální břicho + pas","note":"Závěr programu. Cvič čistě, potom si ulož měření a poznámku, ať vidíš posun.","items":[["deadbug","16/16"],["toetap","18/18"],["revcrunch","16×"],["sideplank","40 s/strana"],["hollow","35 s"],["spine","45 s"]]}]};

diff --git a/index.html b/index.html
@@ -1,1 +1,1 @@
-<!doctype html><html lang="cs"><head><meta charset="utf-8"><meta name="viewport" content="width=device-width,initial-scale=1"><title>Pilates Body 40+ v34</title><link rel="manifest" href="manifest.json"><link rel="stylesheet" href="style.css?v=34"><meta name="theme-color" content="#20b6b2"></head><body><header><div><h1>Pilates Body 40+</h1><p>v34 • Den 1 fotky bez koláží a ořezů</p></div><strong class="brandBadge">40+</strong></header><nav><button id="nav-home" class="active"><span>⌂</span>Domů</button><button id="nav-days"><span>☑</span>Plán</button><button id="nav-train"><span>▶</span>Cvičit</button><button id="nav-calendar"><span>▦</span>Kalendář</button><button id="nav-library"><span>☰</span>Program</button><button id="nav-favs">♡ Oblíbené</button><button id="nav-stats">↗ Statistiky</button><button id="nav-progress">◎ Měření</button><button id="nav-dark">🌙</button></nav><main id="app"><section class="card"><h2>Načítám aplikaci…</h2><p class="muted">Pokud tu zůstaneš, nenačetl se data.js nebo app.js.</p></section></main><script src="data.js?v=34"></script><script src="app.js?v=34"></script></body></html>
+<!doctype html><html lang="cs"><head><meta charset="utf-8"><meta name="viewport" content="width=device-width,initial-scale=1"><title>Pilates Body 40+ v35</title><link rel="manifest" href="manifest.json"><link rel="stylesheet" href="style.css?v=35"><meta name="theme-color" content="#20b6b2"></head><body><header><div><h1>Pilates Body 40+</h1><p>v35 • Den 1 texty a Dead Bug oprava</p></div><strong class="brandBadge">40+</strong></header><nav><button id="nav-home" class="active"><span>⌂</span>Domů</button><button id="nav-days"><span>☑</span>Plán</button><button id="nav-train"><span>▶</span>Cvičit</button><button id="nav-calendar"><span>▦</span>Kalendář</button><button id="nav-library"><span>☰</span>Program</button><button id="nav-favs">♡ Oblíbené</button><button id="nav-stats">↗ Statistiky</button><button id="nav-progress">◎ Měření</button><button id="nav-dark">🌙</button></nav><main id="app"><section class="card"><h2>Načítám aplikaci…</h2><p class="muted">Pokud tu zůstaneš, nenačetl se data.js nebo app.js.</p></section></main><script src="data.js?v=35"></script><script src="app.js?v=35"></script></body></html>